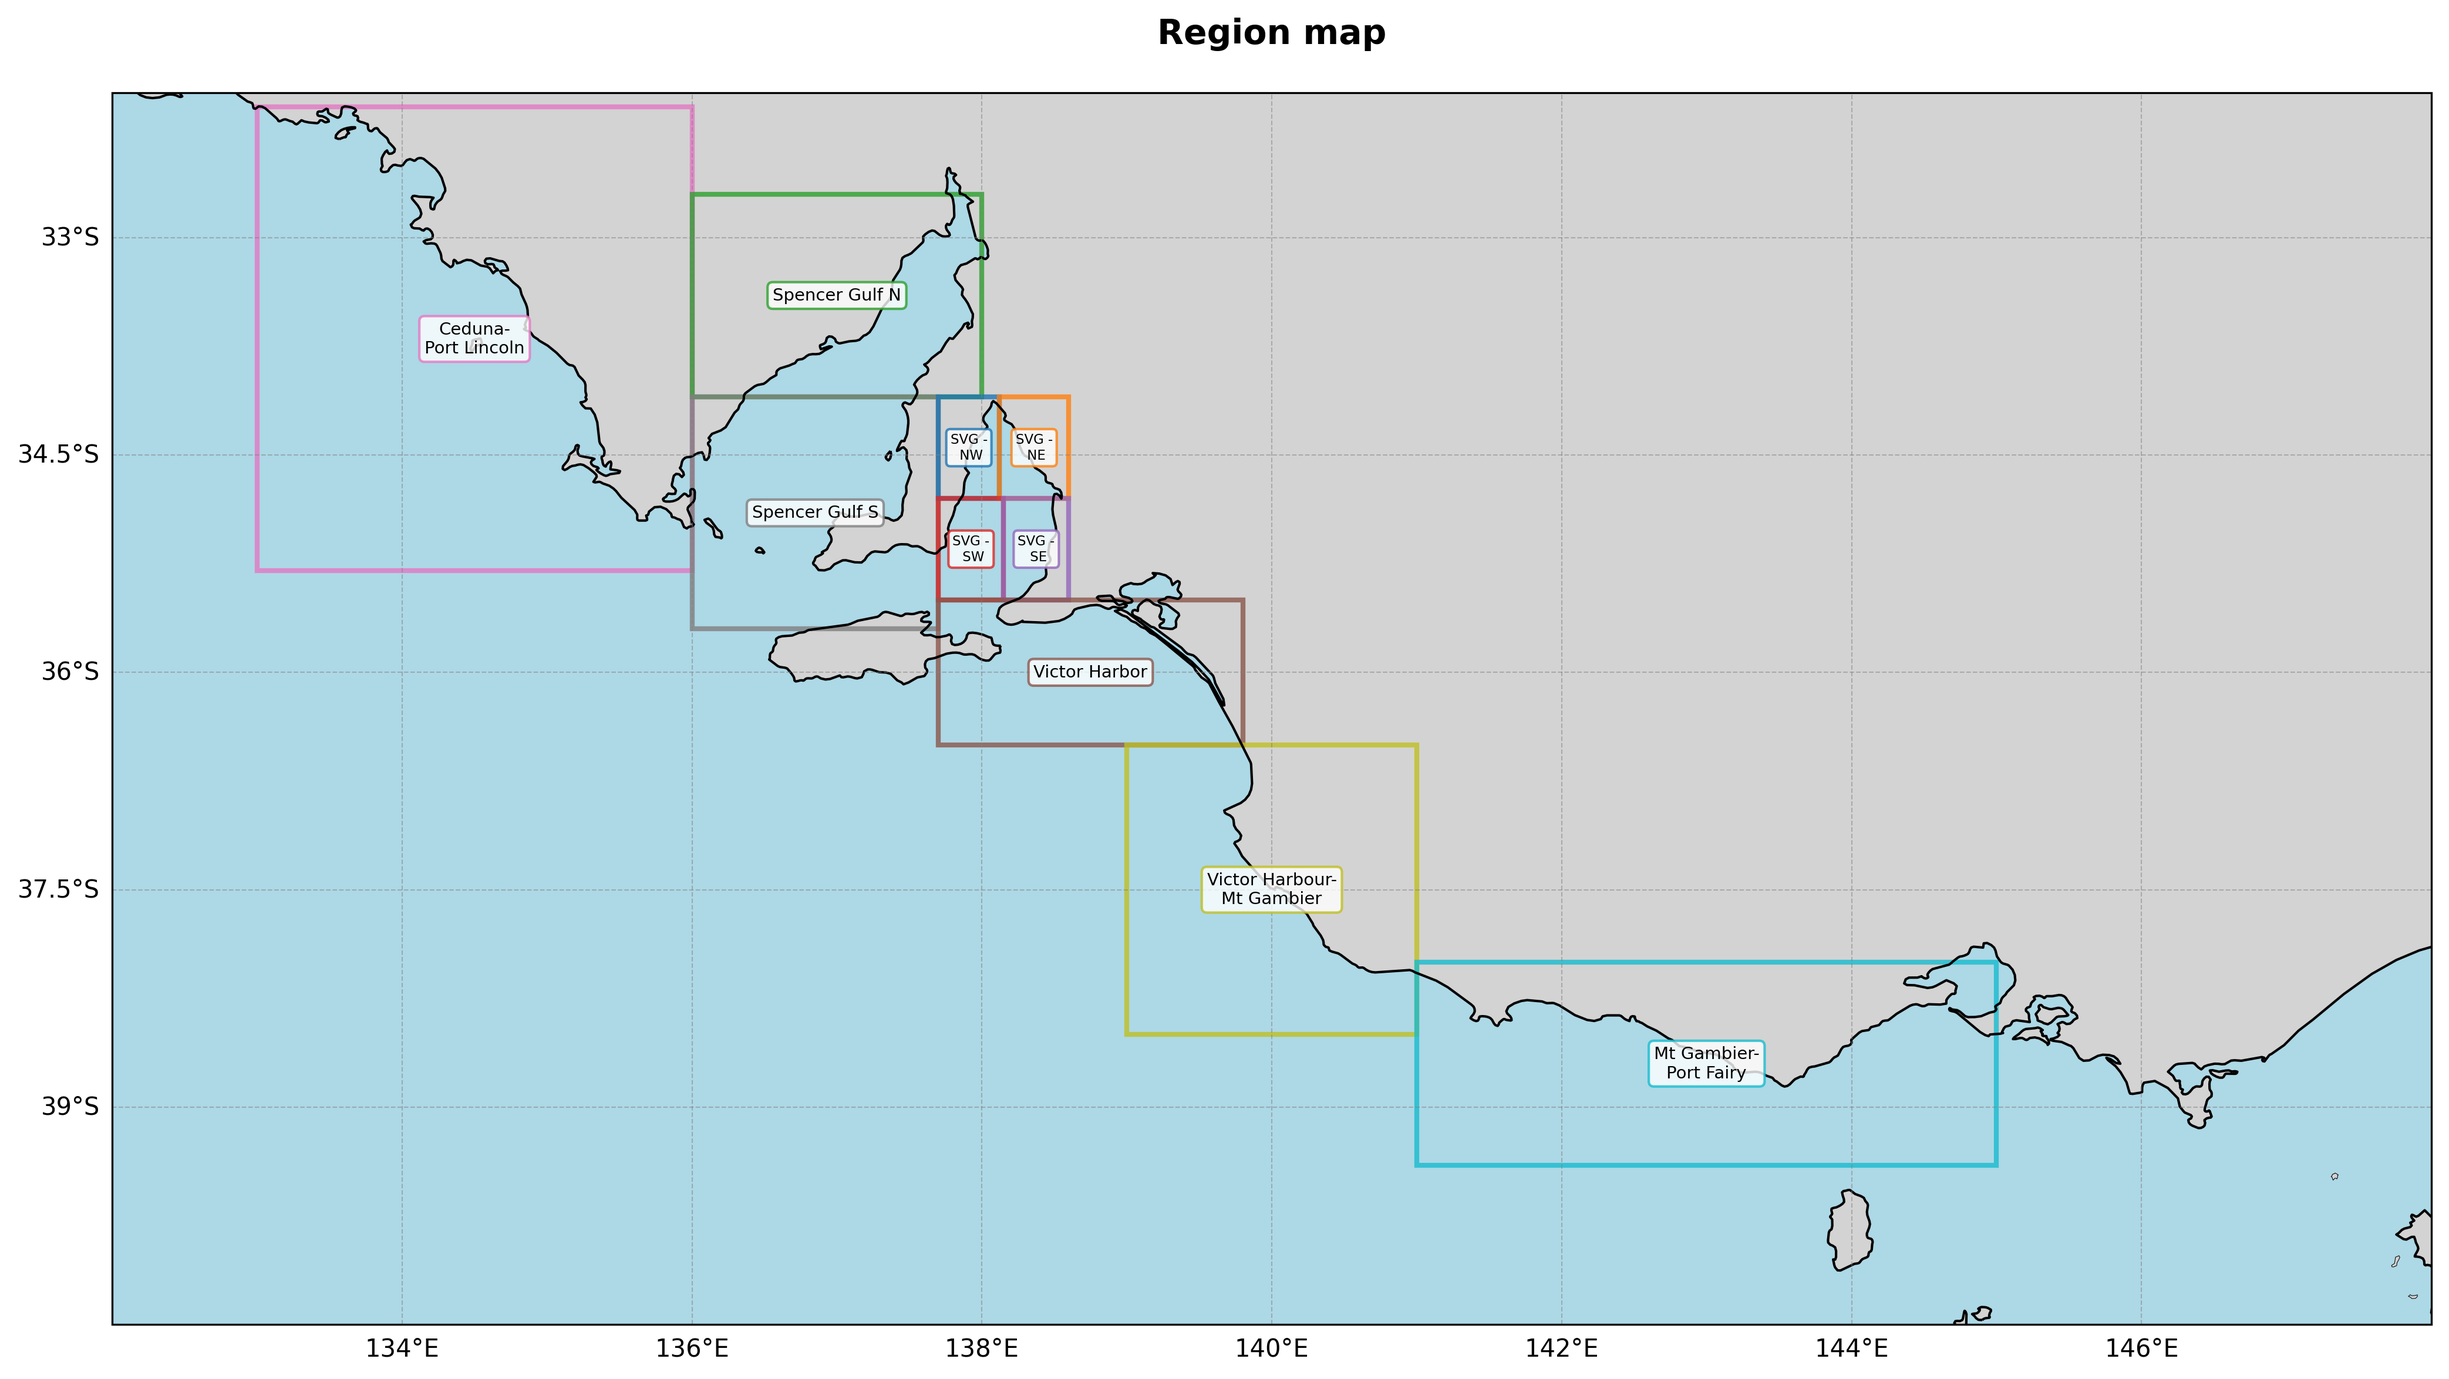
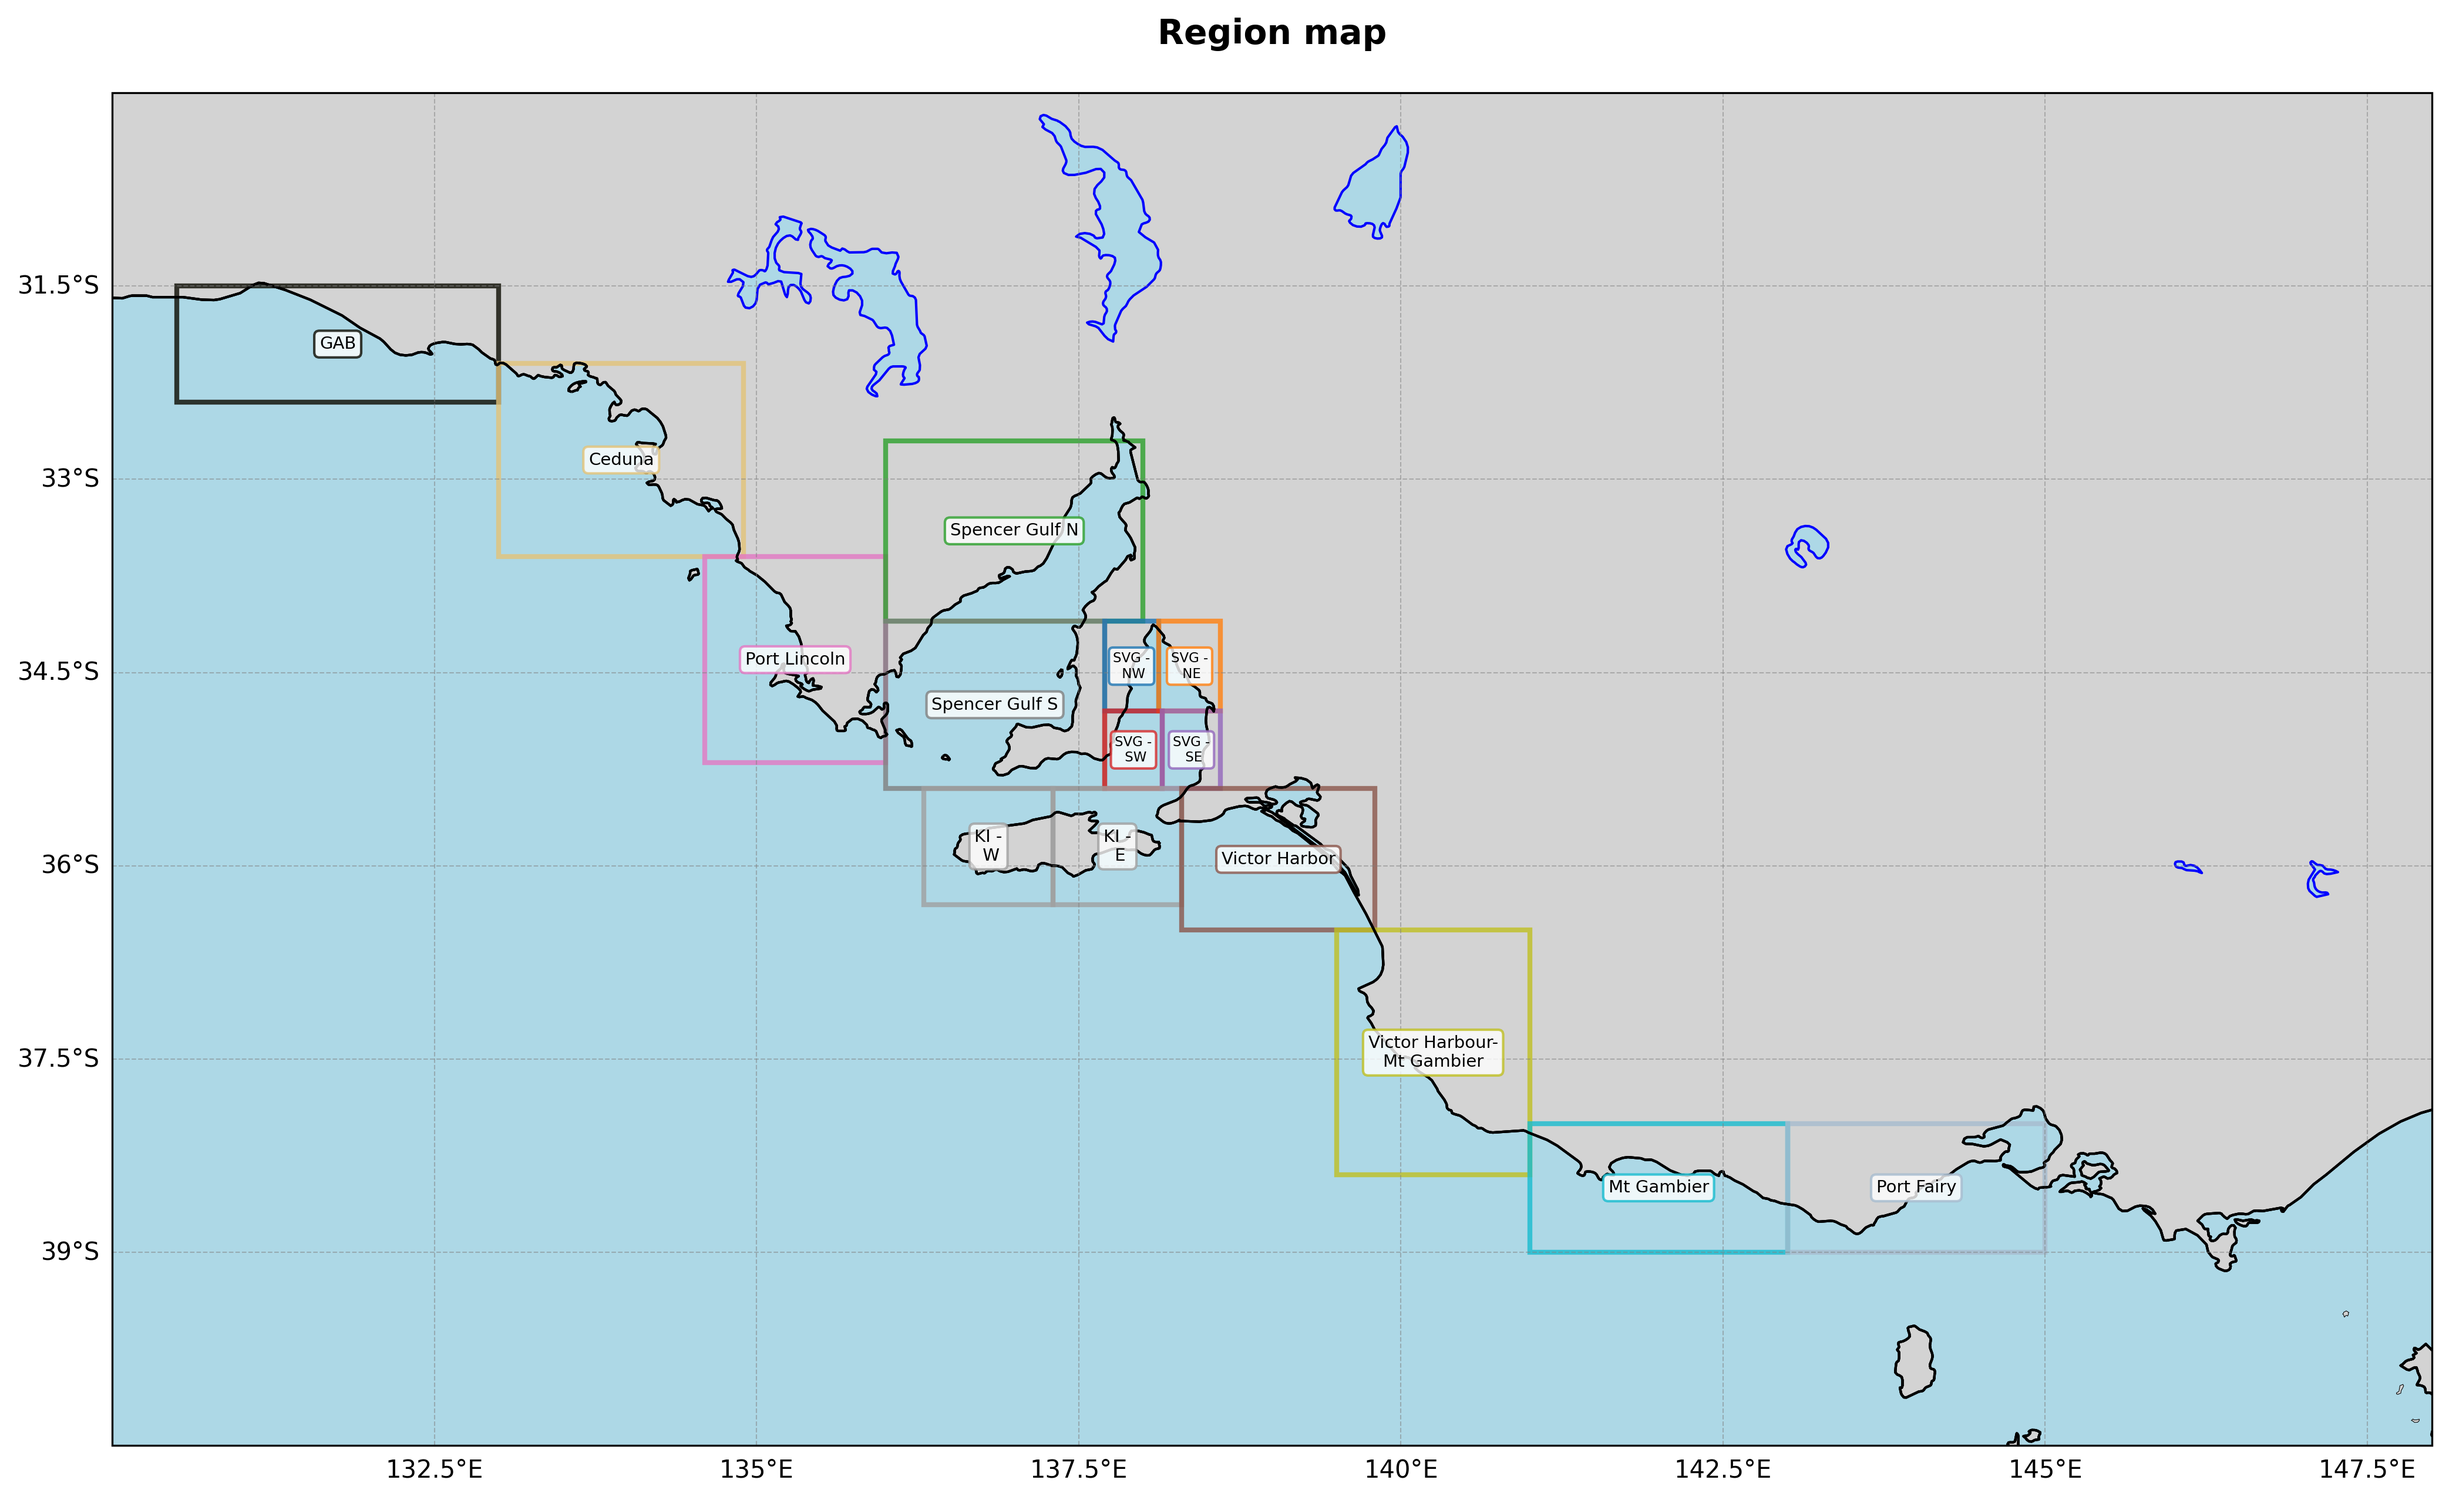
Added KI and GAB, divided Ceduna/Lincoln and Mt Gambier/Pt Fairy

diff --git a/viirs/viirs_map.py b/viirs/viirs_map.py
@@ -19,7 +19,12 @@ def plot_regions(title, output_png, regions, colors):
     ax = fig.add_subplot(1, 1, 1, projection=ccrs.PlateCarree())
 
     # Set extent to cover South Australia coast
-    ax.set_extent([132, 148, -40.5, -32], crs=ccrs.PlateCarree())
+    ax.set_extent([130, 148, -40.5, -30], crs=ccrs.PlateCarree())
+
+    # Use higher resolution coastlines
+    ax.coastlines(resolution='10m')  # Options: '110m', '50m', '10m'
+    ax.add_feature(cfeature.COASTLINE.with_scale('10m'))
+    ax.add_feature(cfeature.LAKES.with_scale('10m'), edgecolor='blue', facecolor='lightblue')
 
     # Add map features
     ax.add_feature(cfeature.LAND, facecolor='lightgray', edgecolor='black', linewidth=0.5)
